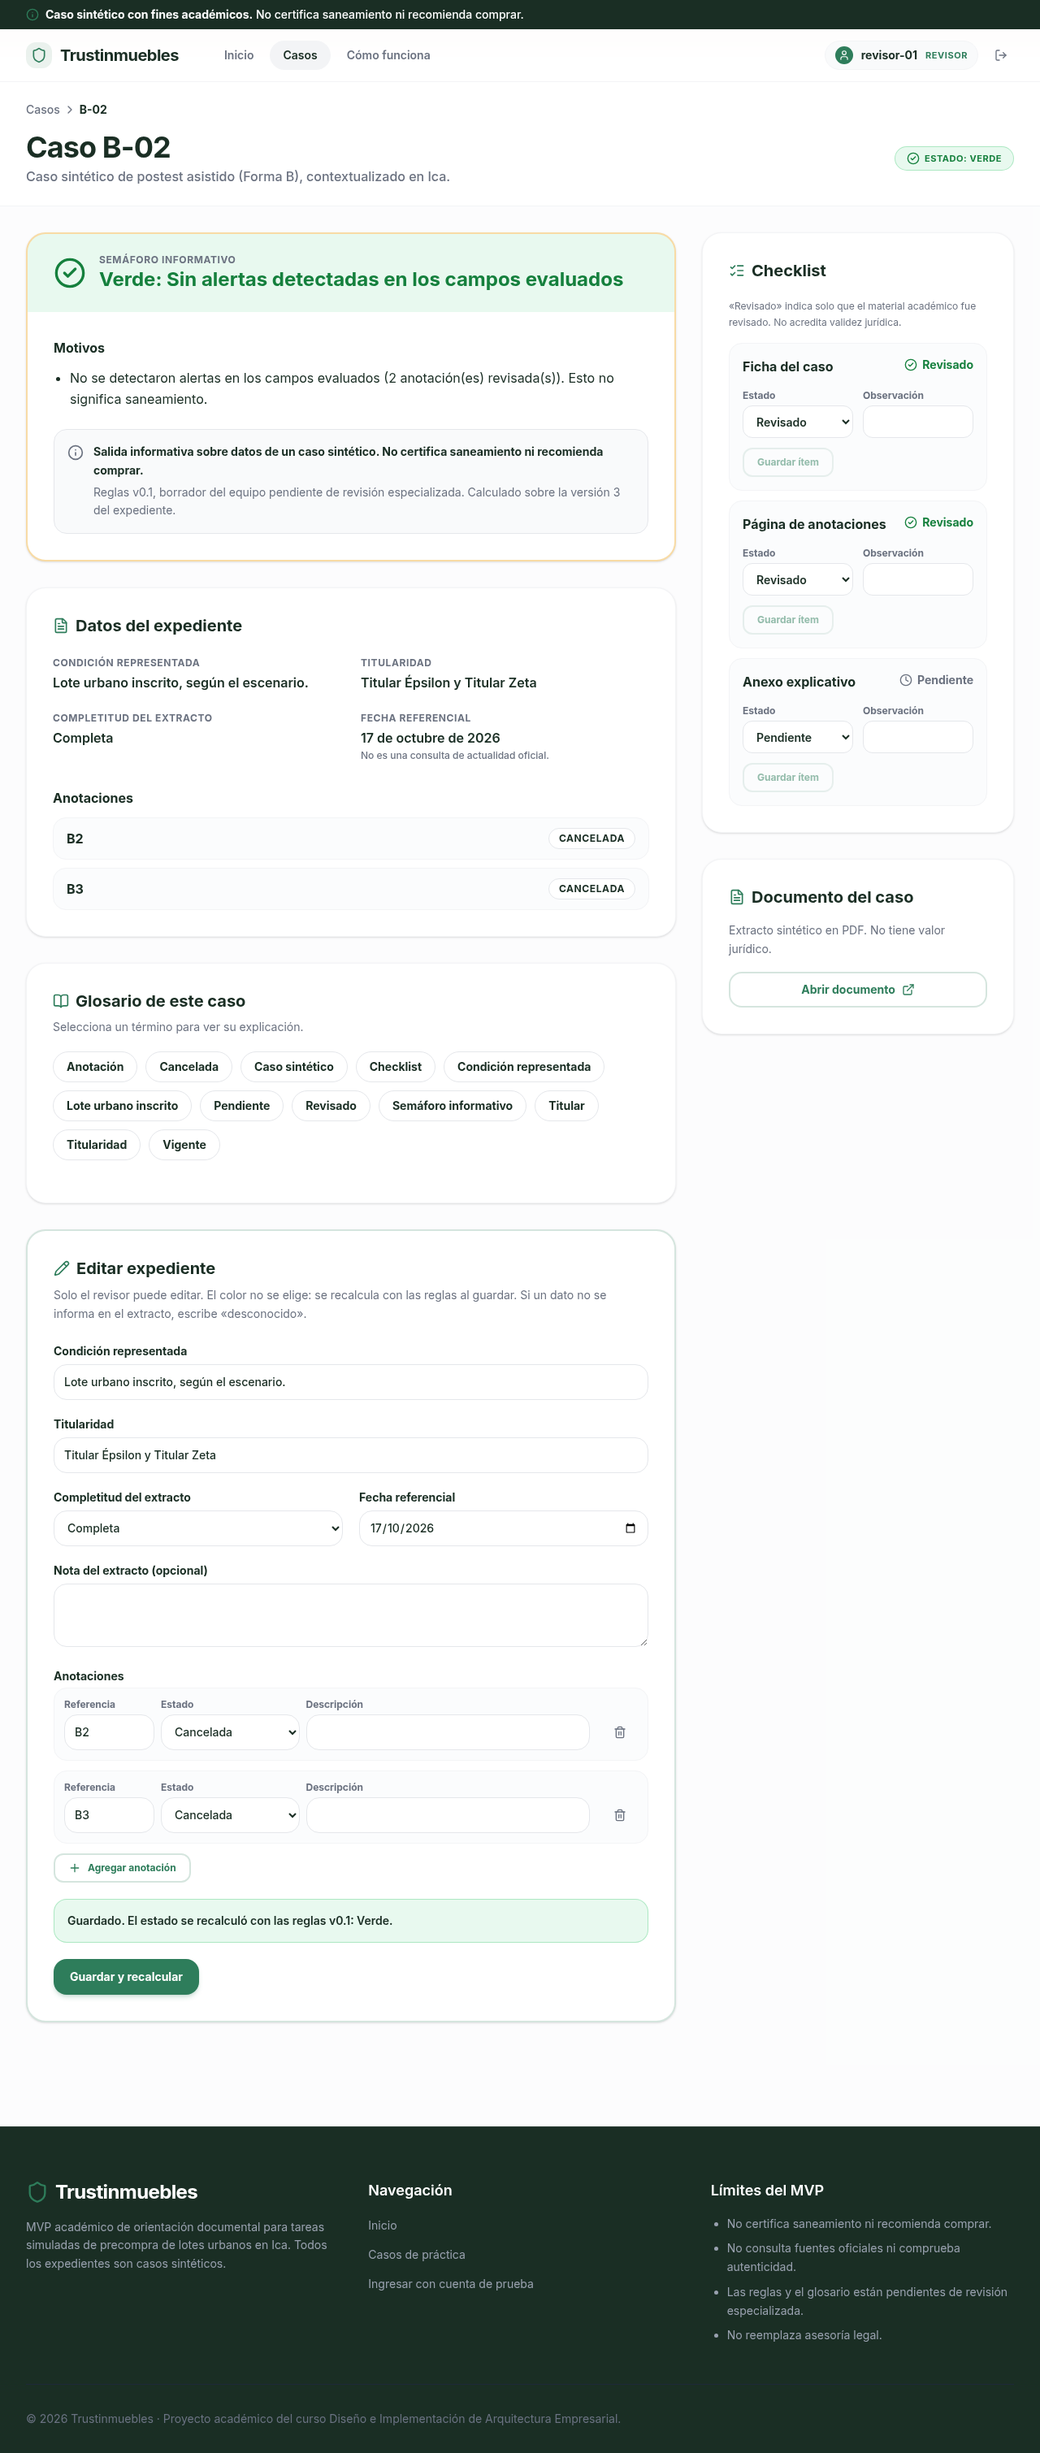
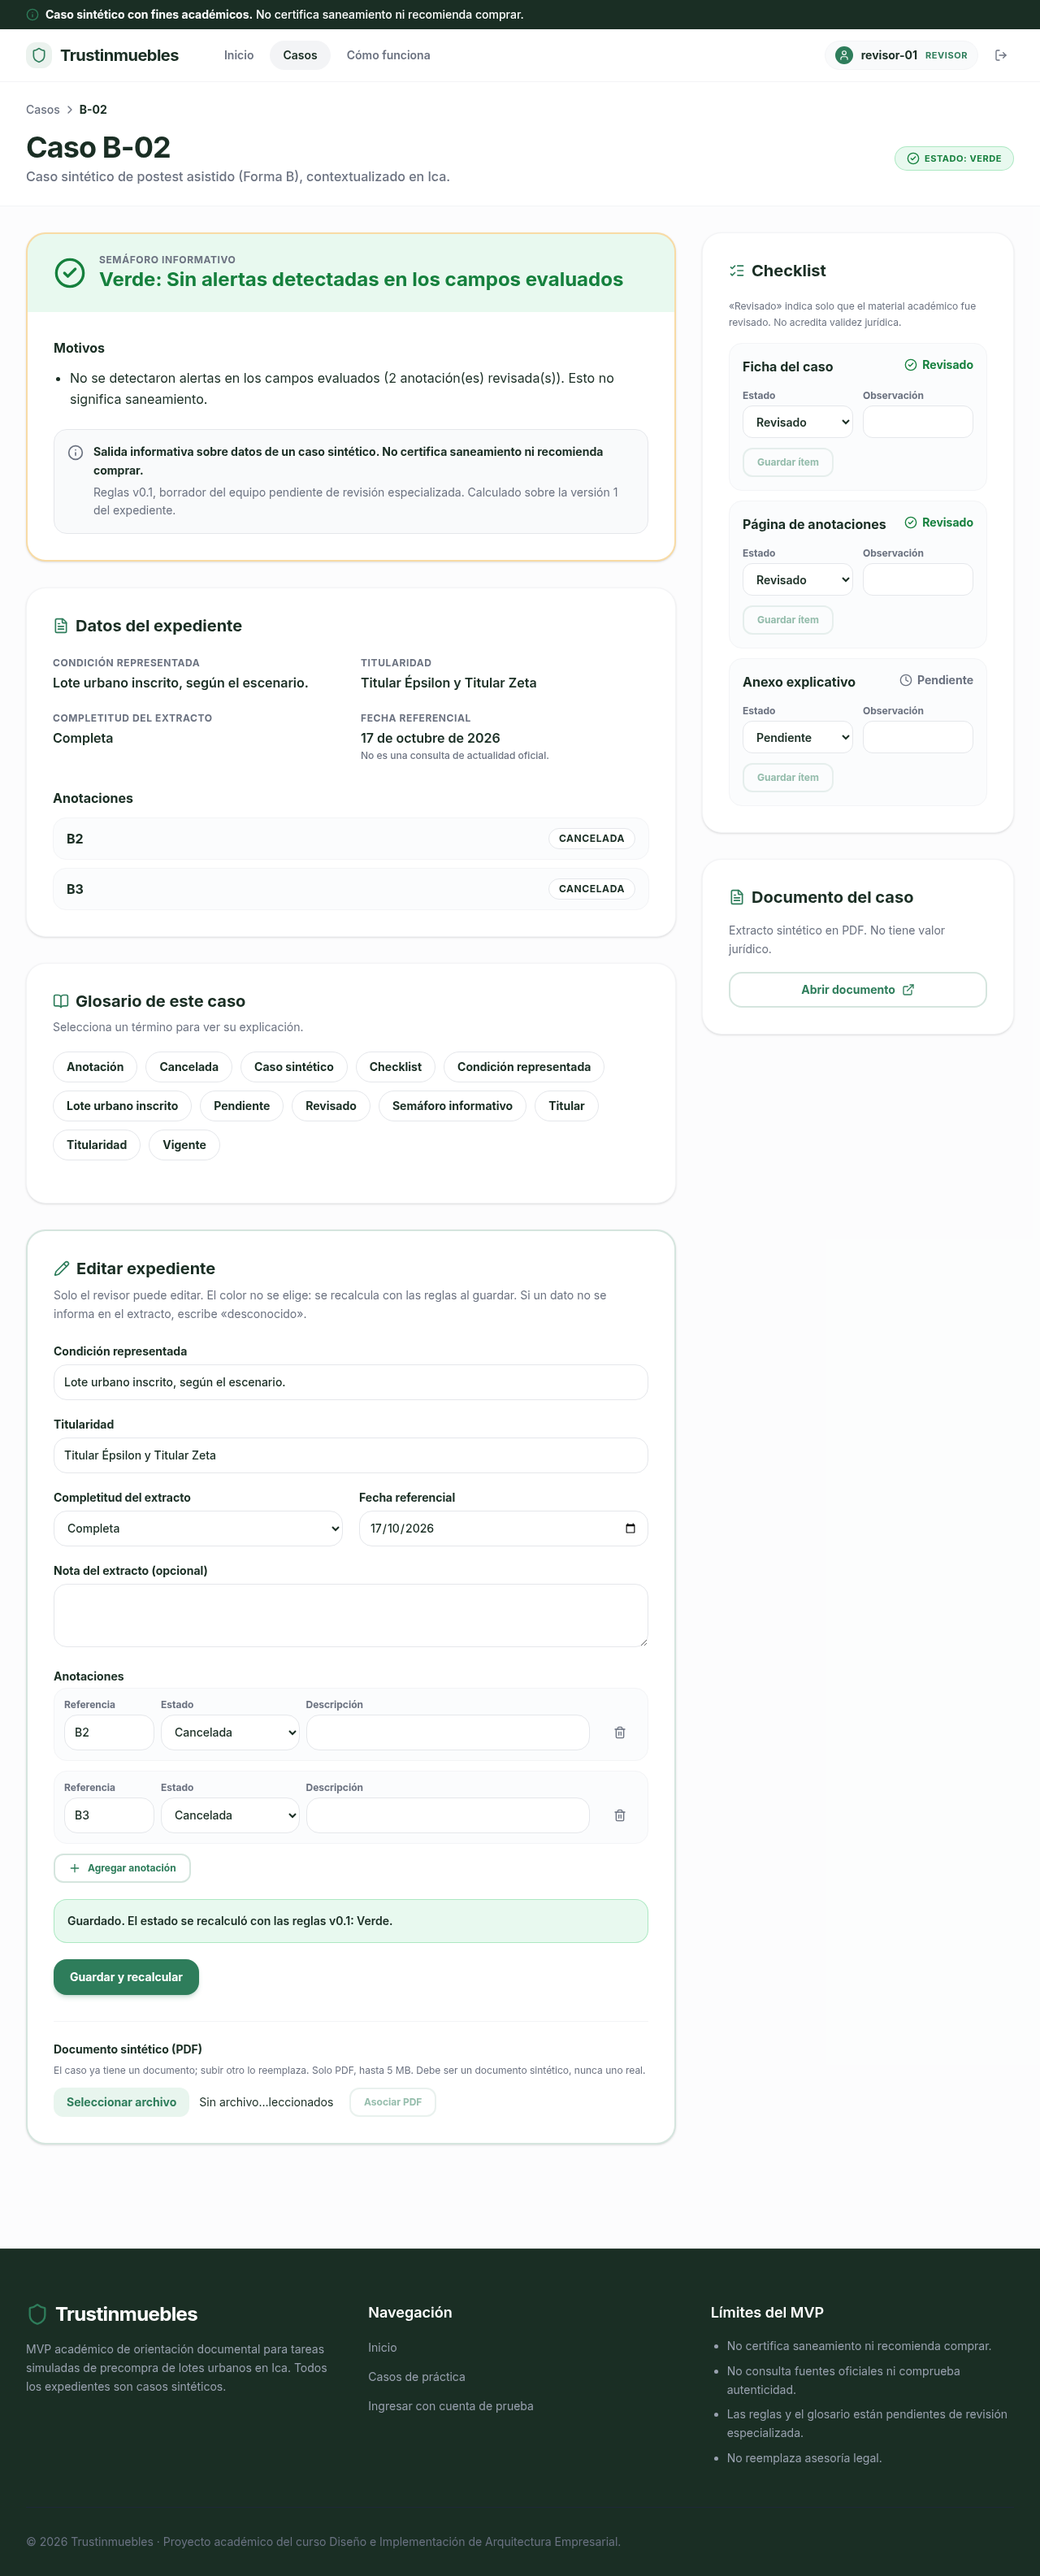
Asociar PDF desde la interfaz del revisor y medir REQ-NF02
REQ-F03 pide asociar un documento sintético: la API ya lo permitía pero la
interfaz no. El revisor ahora sube el PDF desde el editor. Cambiar el documento
sube la versión del expediente, así que la evaluación se recalcula para seguir
correspondiendo a la versión vigente.

Se agrega scripts/medir-nf02.mjs. Con el backend recién iniciado, 20 de 20
ejecuciones de listado y apertura cumplen los 2 segundos (máximo 76,6 ms).
Evidencias regeneradas: 35 pruebas del backend y 26 verificaciones de navegador.

diff --git a/trustinmuebles/src/components/EditorExpediente.tsx b/trustinmuebles/src/components/EditorExpediente.tsx
@@ -2,13 +2,58 @@ import { useState } from "react";
 import { Pencil, Plus, Trash2 } from "lucide-react";
 import { Button } from "@/components/ui/button";
 import { Card, CardContent } from "@/components/ui/card";
-import { put } from "@/lib/api";
+import { api, put, subirArchivo } from "@/lib/api";
 import { ESTADOS, ETIQUETA_ANOTACION, ETIQUETA_COMPLETITUD } from "@/lib/semaforo";
 import type { Completitud, DetalleCaso, EstadoAnotacion, PeticionExpediente } from "@/lib/types";
 
 interface Fila { referencia: string; estado: EstadoAnotacion; descripcion: string }
 
 const campo = "w-full h-11 px-3 rounded-xl border border-gray-200 bg-white text-sm font-medium focus:outline-none focus:ring-2 focus:ring-primary/20 focus:border-primary";
+
+/** Asociar el PDF sintético del caso (REQ-F03). El servidor acepta solo PDF de hasta 5 MB. */
+function AsociarDocumento({ detalle, alGuardar }: { detalle: DetalleCaso; alGuardar: (d: DetalleCaso) => void }) {
+  const [archivo, setArchivo] = useState<File | null>(null);
+  const [error, setError] = useState<string | null>(null);
+  const [mensaje, setMensaje] = useState<string | null>(null);
+  const [subiendo, setSubiendo] = useState(false);
+
+  const subir = async () => {
+    if (!archivo) return;
+    setError(null);
+    setMensaje(null);
+    setSubiendo(true);
+    try {
+      await subirArchivo(`/casos/${detalle.codigo}/documento`, "documento", archivo);
+      alGuardar(await api<DetalleCaso>(`/casos/${detalle.codigo}`));
+      setMensaje("Documento asociado.");
+      setArchivo(null);
+    } catch (e) {
+      setError(e instanceof Error ? e.message : "No se pudo asociar el documento");
+    } finally {
+      setSubiendo(false);
+    }
+  };
+
+  return (
+    <div className="mt-8 pt-6 border-t border-gray-100">
+      <h3 className="text-sm font-bold mb-1.5">Documento sintético (PDF)</h3>
+      <p className="text-xs text-muted-foreground mb-3 leading-relaxed">
+        {detalle.expediente.tieneDocumento ? "El caso ya tiene un documento; subir otro lo reemplaza." : "El caso no tiene documento."}
+        {" "}Solo PDF, hasta 5 MB. Debe ser un documento sintético, nunca uno real.
+      </p>
+      <div className="flex flex-wrap items-center gap-3">
+        <label htmlFor="ed-pdf" className="sr-only">Archivo PDF</label>
+        <input id="ed-pdf" type="file" accept="application/pdf" onChange={(e) => setArchivo(e.target.files?.[0] ?? null)}
+          className="text-sm file:mr-3 file:rounded-lg file:border-0 file:bg-secondary file:px-4 file:py-2 file:text-sm file:font-bold file:text-primary" />
+        <Button type="button" variant="outline" size="sm" disabled={!archivo || subiendo} onClick={subir}>
+          {subiendo ? "Subiendo…" : "Asociar PDF"}
+        </Button>
+      </div>
+      {error && <p role="alert" className="mt-3 text-sm font-semibold text-[#B91C1C]">{error}</p>}
+      {mensaje && <p role="status" className="mt-3 text-sm font-semibold text-foreground">{mensaje}</p>}
+    </div>
+  );
+}
 
 /** Edición del expediente, solo para el revisor. El servidor vuelve a verificar el rol y valida todo (PA4, NF04). */
 export function EditorExpediente({ detalle, alGuardar }: { detalle: DetalleCaso; alGuardar: (d: DetalleCaso) => void }) {
@@ -151,6 +196,8 @@ export function EditorExpediente({ detalle, alGuardar }: { detalle: DetalleCaso;
             {guardando ? "Guardando…" : "Guardar y recalcular"}
           </Button>
         </form>
+
+        <AsociarDocumento detalle={detalle} alGuardar={alGuardar} />
       </CardContent>
     </Card>
   );

diff --git a/trustinmuebles/src/lib/api.ts b/trustinmuebles/src/lib/api.ts
@@ -18,7 +18,10 @@ async function request(path: string, init: RequestInit = {}): Promise<Response> 
   const headers = new Headers(init.headers);
   const token = getToken();
   if (token) headers.set("Authorization", `Bearer ${token}`);
-  if (init.body && !headers.has("Content-Type")) headers.set("Content-Type", "application/json");
+  // Con FormData el navegador fija el Content-Type (multipart) con su separador; no se debe forzar JSON.
+  if (init.body && !(init.body instanceof FormData) && !headers.has("Content-Type")) {
+    headers.set("Content-Type", "application/json");
+  }
   let res: Response;
   try {
     res = await fetch(BASE + path, { ...init, headers });
@@ -48,6 +51,13 @@ export const post = <T>(path: string, body?: unknown) =>
   api<T>(path, { method: "POST", body: body === undefined ? undefined : JSON.stringify(body) });
 export const put = <T>(path: string, body: unknown) => api<T>(path, { method: "PUT", body: JSON.stringify(body) });
 export const patch = <T>(path: string, body: unknown) => api<T>(path, { method: "PATCH", body: JSON.stringify(body) });
+
+/** Sube un archivo como multipart en el campo indicado. */
+export function subirArchivo<T>(path: string, campo: string, archivo: File) {
+  const datos = new FormData();
+  datos.append(campo, archivo);
+  return api<T>(path, { method: "POST", body: datos });
+}
 
 /** Abre en otra pestaña un PDF protegido (necesita el token, por eso no es un enlace directo). */
 export async function abrirPdf(path: string) {

diff --git a/trustinmuebles-backend/src/test/java/pe/trustinmuebles/CasosApiTest.java b/trustinmuebles-backend/src/test/java/pe/trustinmuebles/CasosApiTest.java
@@ -291,5 +291,9 @@ class CasosApiTest extends BaseApiTest {
         mvc.perform(multipart("/api/v1/casos/DEMO-01/documento").file(bueno).header("Authorization", revisor))
                 .andExpect(status().isCreated()).andExpect(jsonPath("$.codigo").value("DEMO-01"))
                 .andExpect(jsonPath("$.sha256", hasLength(64)));
+        JsonNode despues = leer("DEMO-01");
+        assertThat(despues.get("evaluacion").get("expedienteVersion").asLong())
+                .as("la evaluación corresponde a la versión vigente del expediente")
+                .isEqualTo(despues.get("expediente").get("version").asLong());
     }
 }

diff --git a/trustinmuebles-backend/src/main/java/pe/trustinmuebles/expediente/ExpedienteService.java b/trustinmuebles-backend/src/main/java/pe/trustinmuebles/expediente/ExpedienteService.java
@@ -120,6 +120,10 @@ class ExpedienteService {
         var guardado = almacenamiento.guardar(codigo + ".pdf", "application/pdf", datos, false);
         e.setDocumentoArchivoId(guardado.id());
         e.setActualizadoEn(Instant.now().truncatedTo(ChronoUnit.MILLIS));
+        // Cambiar el documento sube la versión del expediente; se recalcula para que la evaluación siga
+        // correspondiendo a la versión vigente (RN-06).
+        expedientes.saveAndFlush(e);
+        clasificacion.recalcular(e.getId(), e.getVersion(), entrada(e));
         return new DocumentoDto(codigo, guardado.sha256());
     }
 
